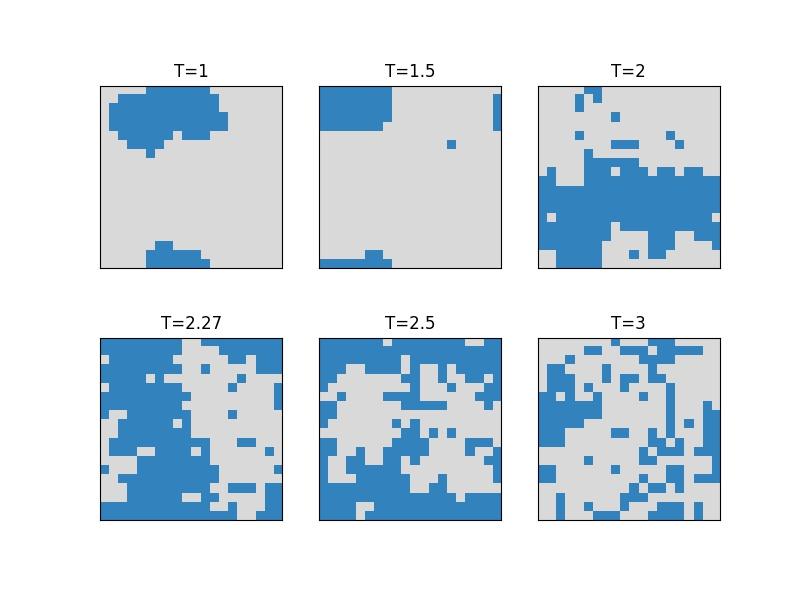
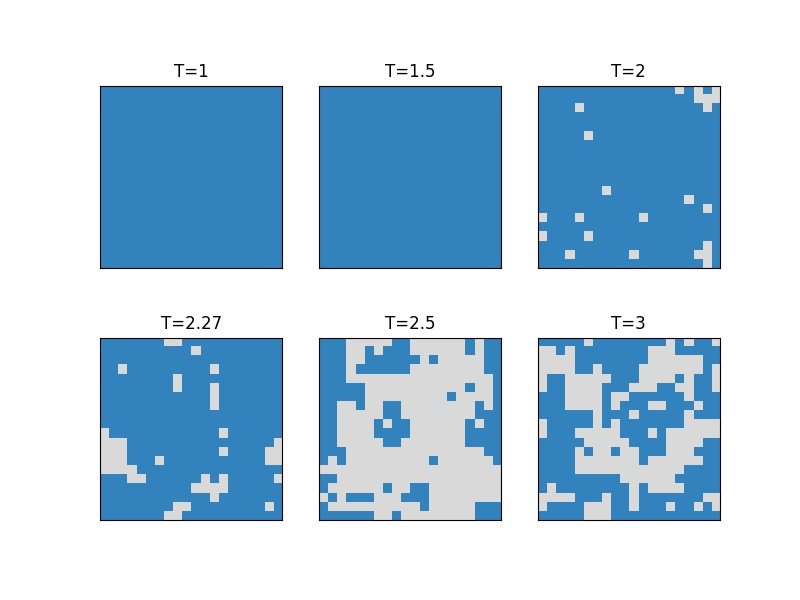
Move comments inside functions and added images

diff --git a/ising.py b/ising.py
@@ -11,7 +11,7 @@ from time import time
 start_time = time()
 n = 20                 #used to create n x n domain
 N = n**2               #number of atoms in domain
-iterations = 10**5
+iterations = 10**7
 
 #creates a normalized distribution of temperature points around the mean_temp
 mean_temp = 2.27
@@ -29,8 +29,9 @@ specific_temps = [1,1.5,2,2.27,2.5,3] #temperatures used to create domain images
 #Functions Utilized by Main Loop
 #-------------------------------
 
-'''Creates a random array of dipole states'''
+
 def initialize(n_sites):
+    '''Creates a random array of dipole states'''
     state = np.zeros((n_sites, n_sites))
 
     for i in range(n_sites):
@@ -41,11 +42,12 @@ def initialize(n_sites):
                 state[i][j] = -1
     return state
 
-'''Computes dU of a flipping a dipole.
-This is a Monte Carlo algorithm using
-the Metropolis Algorithm. It has peridic
-boundary conditions.'''
+
 def deltaU(i,j,n_sites,state):
+    '''Computes dU of a flipping a dipole.
+    This is a Monte Carlo algorithm using
+    the Metropolis Algorithm. It has peridic
+    boundary conditions.'''
     m = n_sites-1    #max row/column entry
 
     if i == 0:
@@ -71,13 +73,15 @@ def deltaU(i,j,n_sites,state):
     dU = 2*state[i,j]*(top+bottom+left+right)
     return dU
 
-'''Computes overall magnetism of a state'''
+
 def Magnetization(state):
+    '''Computes overall magnetism of a state'''
     mag = np.sum(state)
     return mag
 
-'''Computes overall energy of a state'''
+
 def Energy(state):
+    '''Computes overall energy of a state'''
     global n
     energy = 0
     for i in range(len(state)):
@@ -106,14 +110,10 @@ for m in range(len(temps)):
         else:
             if np.random.random() < exp(-Ediff/T):
                 state[i,j] *= -1
-        Ene = Energy(state)
-        Mag = Magnetization(state)
-
-        E1 += Ene
-        M1 += Mag
-
-    magnetization[m] = n1*M1
-    energy[m] = n1*E1
+    Ene = Energy(state)
+    Mag = Magnetization(state)
+    magnetization[m] = Mag/N
+    energy[m] = Ene/N
 
 
 print("---%s seconds---" %(time()-start_time))  #prints main loop run time
@@ -161,6 +161,8 @@ fig = plt.figure(figsize = (15,5))
 
 sub = fig.add_subplot(1,2,1)
 plt.plot(temps, abs(magnetization), 'o', markerfacecolor= "blue", markersize= 3)
+plt.plot((2.27, 2.27), (0,1), 'k--')
+plt.text(2.3, 1, r'$T_c$')
 plt.xlabel("Temperature (T)", fontsize=12)
 plt.ylabel("Magnetization per site", fontsize=12)
 
